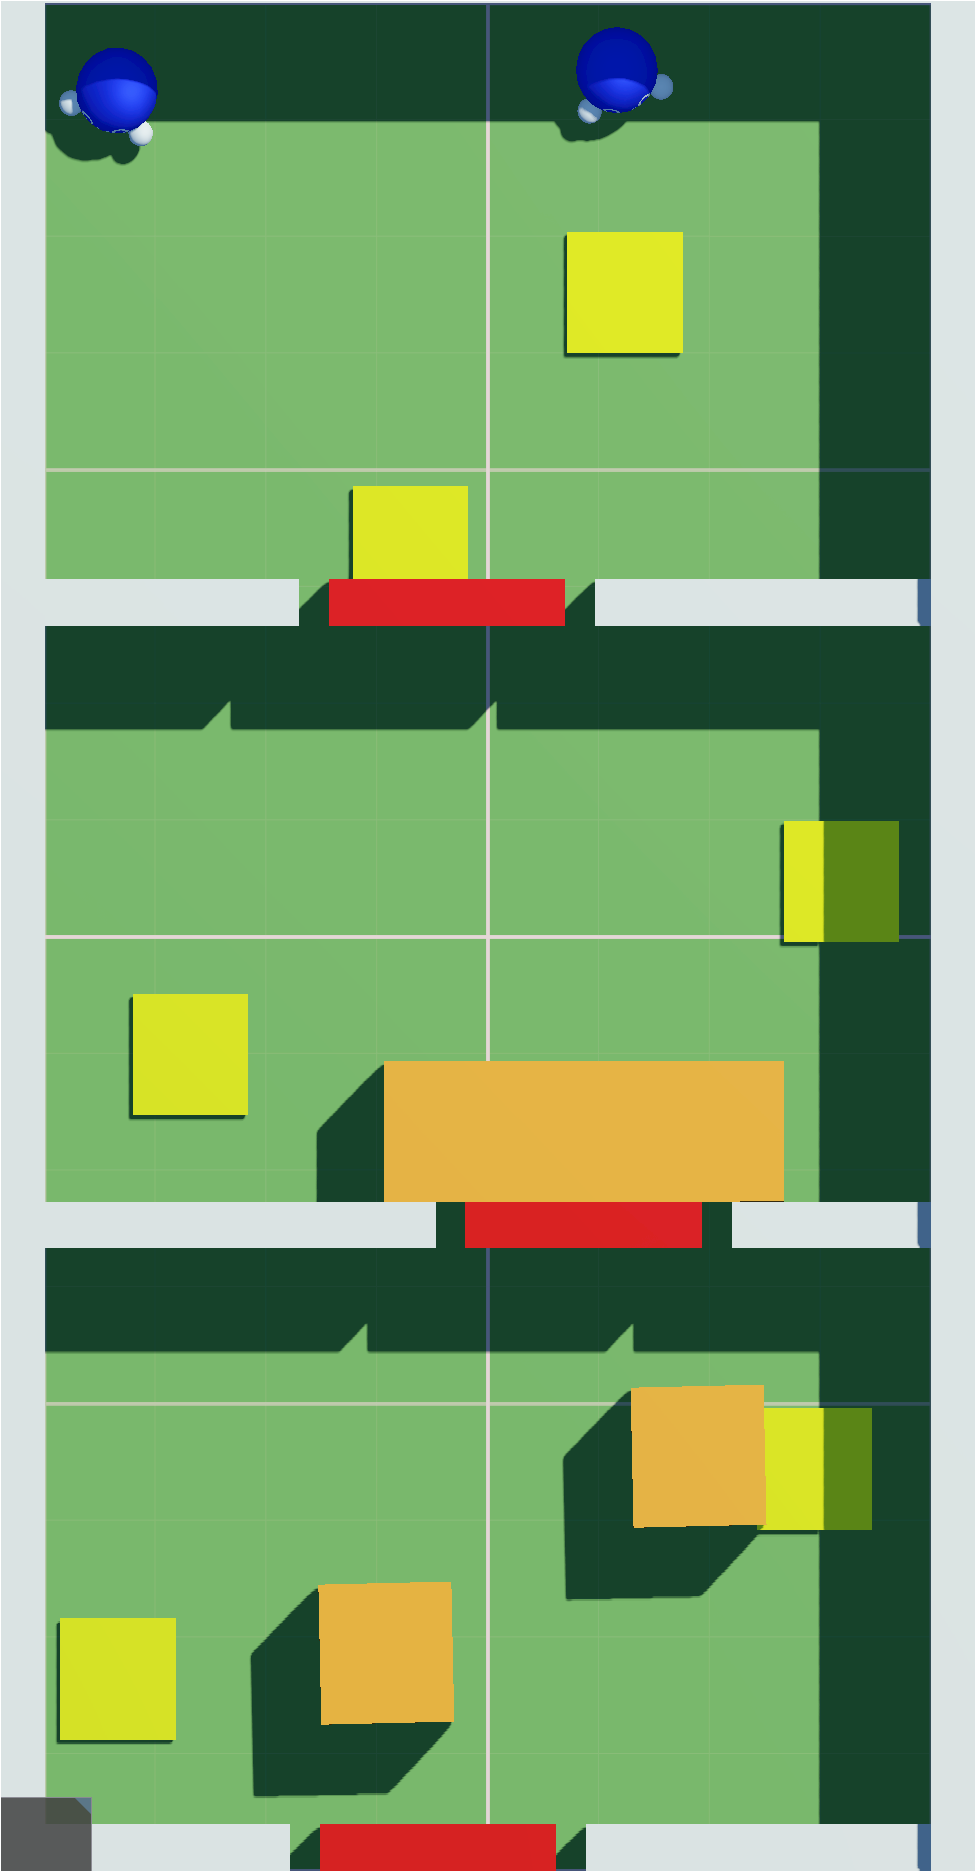
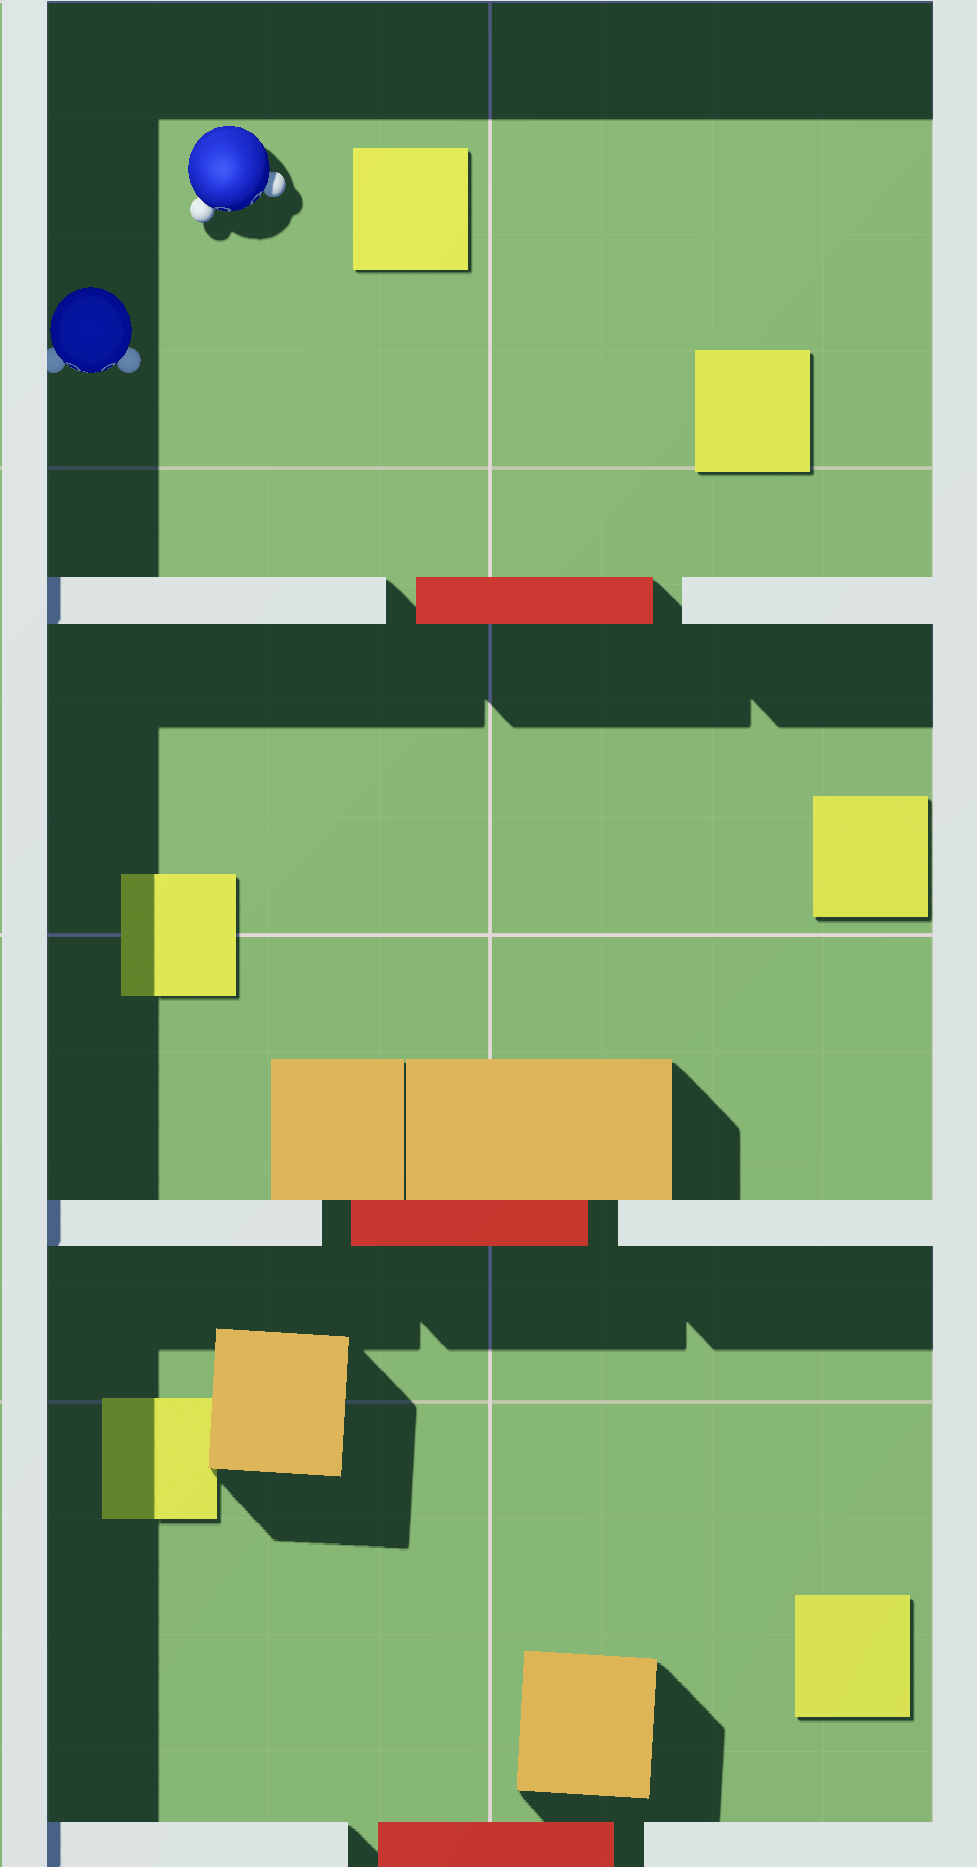
Fixed env changes and sweeps

diff --git a/visualization/index.html b/visualization/index.html
@@ -146,8 +146,10 @@
       .range([0.5, 1]); // Adjust the opacity range as per your preference
 
   const heatmapColorScale = d3.scaleLinear()
-    .domain([-0.5, 0, 1.5, 3])
-    .range(["red", "white", "blue", "navy"]);
+  //  .domain([-0.5, 0, 1.5, 3])
+  //  .range(["red", "white", "blue", "navy"]);
+      .domain([d3.min(averageHeatmapData.flat()), 0, d3.max(averageHeatmapData.flat())])
+      .range(["red", "white", "blue"]);
 
   heatmapSvg.selectAll("rect")
     .data(averageHeatmapData.flat())
@@ -270,7 +272,8 @@
             .attr("x2", xScale(point.x))
             .attr("y2", yScale(point.y))
             .attr("stroke", color)
-            .attr("stroke-width", 2);
+            .attr("stroke-width", 2)
+            .attr("stroke-opacity", 0.5);
         }
       });
     });

diff --git a/src/sim.cpp b/src/sim.cpp
@@ -93,7 +93,7 @@ static inline void initWorld(Engine &ctx)
     // Assign a new episode ID
     EpisodeManager &episode_mgr = *ctx.data().episodeMgr;
     int32_t episode_idx = episode_mgr.curEpisode.fetch_add<sync::relaxed>(1);
-    ctx.data().rng = RNG::make(episode_idx); // SET TO 0 FOR FIXED WORLD VISHNU
+    ctx.data().rng = RNG::make(0); //episode_idx); // SET TO 0 FOR FIXED WORLD VISHNU
     ctx.data().curEpisodeIdx = episode_idx;
 
     // Defined in src/level_gen.hpp / src/level_gen.cpp
@@ -507,11 +507,10 @@ inline void denseRewardSystem(Engine &,
 
     float reward = 0.0f;
 
-    /*if (reward_pos > 14.0f && old_max_y < 14.0f) {
+    if (reward_pos > 14.0f && old_max_y < 14.0f) {
         // Passed the first room
         reward += 1.0f;
-    } else */
-    if (reward_pos > 28.0f && old_max_y < 28.0f) {
+    } else if (reward_pos > 28.0f && old_max_y < 28.0f) {
         reward += 10.0f;
     } else if (reward_pos > 41.0f && old_max_y < 41.0f) {
         reward += 100.0f;
@@ -565,22 +564,27 @@ inline void denseRewardSystem3(Engine &ctx,
         reward_pos = 10.0f;
     } else if (reward_pos < 27.0f && reward_pos > 22.0f) {
         reward_pos = 22.0f;
-    } else if (reward_pos < 41.0f && reward_pos > 36.0f) {
+    } else if (reward_pos < 40.0f && reward_pos > 36.0f) {
         reward_pos = 36.0f;
+    } else if (reward_pos >= 40.0f) {
+        reward_pos += 10.0f; // Not sure if this one is necessary
     }
-
-    float reward = 0.05 * exp(reward_pos / 10);
 
     // Provide reward for open doors
     CountT cur_room_idx = CountT(pos.y / consts::roomLength);
-    const LevelState &level = ctx.singleton<LevelState>();
-    const Room &room = level.rooms[cur_room_idx];
-    Entity cur_door = room.door;
-    //Vector3 door_pos = ctx.get<Position>(cur_door); // Could provide reward for approaching open door
-    OpenState door_open_state = ctx.get<OpenState>(cur_door);
-    //door_obs.polar = xyToPolar(to_view.rotateVec(door_pos - pos));
-    float isOpen = door_open_state.isOpen ? 1.f : 0.f;
-    reward += isOpen; // Maybe add scaling to this
+    if (cur_room_idx < 3) {
+        // Still in a room
+        const LevelState &level = ctx.singleton<LevelState>();
+        const Room &room = level.rooms[cur_room_idx];
+        Entity cur_door = room.door;
+        //Vector3 door_pos = ctx.get<Position>(cur_door); // Could provide reward for approaching open door
+        OpenState door_open_state = ctx.get<OpenState>(cur_door);
+        //door_obs.polar = xyToPolar(to_view.rotateVec(door_pos - pos));
+        float isOpen = door_open_state.isOpen ? 1.f : 0.f;
+        reward_pos += isOpen*5; // Maybe add scaling to this
+    }
+
+    float reward = 0.05 * exp(reward_pos / 10);
 
     out_reward.v = reward;
 }
@@ -676,6 +680,30 @@ inline void rewardSystem(Engine &,
         reward = consts::slackReward;
     }
 
+    out_reward.v = reward;
+}
+
+// Computes reward for each agent and keeps track of the max distance achieved
+// so far through the challenge. Continuous reward is provided for any new
+// distance achieved.
+inline void rewardSystemFixed(Engine &,
+                         Position pos,
+                         Progress &progress,
+                         Reward &out_reward)
+{
+    // Just in case agents do something crazy, clamp total reward
+    float reward_pos = fminf(pos.y, consts::worldLength * 2);
+
+    float old_max_y = progress.maxY;
+
+    float new_progress = reward_pos - old_max_y;
+
+    float reward = 0.0f;
+    if (new_progress > 0) {
+        reward = new_progress * consts::rewardPerDist;
+        progress.maxY = reward_pos;
+    } 
+    
     out_reward.v = reward;
 }
 
@@ -802,7 +830,7 @@ void Sim::setupTasks(TaskGraphBuilder &builder, const Config &cfg)
         >>({button_sys});
 
     // Compute initial reward now that physics has updated the world state
-    
+    /*
     auto reward_sys = builder.addToGraph<ParallelForNode<Engine,
          rewardSystem,
             Position,
@@ -817,21 +845,21 @@ void Sim::setupTasks(TaskGraphBuilder &builder, const Config &cfg)
             Progress,
             Reward
         >>({reward_sys});
-    /*
+    */
     auto reward_sys = builder.addToGraph<ParallelForNode<Engine,
-         sparseRewardSystem2,
+         denseRewardSystem3,
             Position,
             Progress,
             Reward
         >>({door_open_sys});
-    */
+    
     // Check if the episode is over
     auto done_sys = builder.addToGraph<ParallelForNode<Engine,
         stepTrackerSystem,
             StepsRemaining,
             Done
-        >>({bonus_reward_sys});
-    //    >>({reward_sys});
+    //    >>({bonus_reward_sys});
+        >>({reward_sys});
 
     // Conditionally reset the world if the episode is over
     auto reset_sys = builder.addToGraph<ParallelForNode<Engine,

diff --git a/scripts/train.py b/scripts/train.py
@@ -43,6 +43,8 @@ arg_parser.add_argument('--profile-report', action='store_true')
 arg_parser.add_argument('--no-value-norm', action='store_true')
 arg_parser.add_argument('--no-advantage-norm', action='store_true')
 
+arg_parser.add_argument('--no-advantages', action='store_true')
+
 args = arg_parser.parse_args()
 
 normalize_values = not args.no_value_norm
@@ -87,6 +89,7 @@ class LearningCallback:
             second_room_count = (update_results.obs[0][:,:,:,3] > 0.34).sum()
             third_room_count = (update_results.obs[0][:,:,:,3] > 0.67).sum()
             exit_count = (update_results.obs[0][:,:,:,3] > 1.01).sum()
+            door_count = (update_results.obs[3][:,:,:,2] > 0.5).sum()
 
             value_mean = update_results.values.mean().cpu().item()
             value_min = update_results.values.min().cpu().item()
@@ -131,6 +134,7 @@ class LearningCallback:
             "second_room_count": second_room_count,
             "third_room_count": third_room_count,
             "exit_count": exit_count,
+            "door_count": door_count,
             "vnorm_mu": vnorm_mu,
             }
         )
@@ -151,7 +155,7 @@ sim = madrona_escape_room.SimManager(
     auto_reset = True,
 )
 
-use_warm_up = False
+use_warm_up = True
 if use_warm_up:
     steps_so_far = 0
     warm_up = 32
@@ -222,6 +226,7 @@ train(
             max_grad_norm=0.5,
             num_epochs=2,
             clip_value_loss=args.clip_value_loss,
+            no_advantages=args.no_advantages,
         ),
         value_normalizer_decay = 0.999,
         mixed_precision = args.fp16,

diff --git a/train_src/madrona_escape_room_learn/train.py b/train_src/madrona_escape_room_learn/train.py
@@ -137,8 +137,12 @@ def _compute_advantages(cfg : TrainConfig,
         next_valid = 1.0 - cur_dones
 
         # delta_t = r_t + gamma * V(s_{t+1}) - V(s_t)
-        td_err = (cur_rewards + 
-            cfg.gamma * next_valid * next_values - cur_values)
+        if cfg.no_advantages:
+            td_err = (cur_rewards + 
+                cfg.gamma * next_valid * next_values) # Don't subtract off cur_values
+        else:
+            td_err = (cur_rewards + 
+                cfg.gamma * next_valid * next_values - cur_values)
 
         # A_t = sum (gamma * lambda)^(l - 1) * delta_l (EQ 16 GAE)
         #     = delta_t + gamma * lambda * A_t+1
@@ -341,6 +345,7 @@ def _update_iter(cfg : TrainConfig,
             rollouts = rollout_mgr.collect(amp, sim, actor_critic, value_normalizer)
 
         # Dump the rollout
+        '''
         curr_rand = torch.rand((1,))[0]
         if curr_rand < 0.05:
             # Dump the features
@@ -351,6 +356,7 @@ def _update_iter(cfg : TrainConfig,
                 # Create a new directory because it does not exist
                 os.makedirs(dir_path)
             torch.save(rollouts, dir_path + str(now) + ".pt")
+        '''
     
         # Engstrom et al suggest recomputing advantages after every epoch
         # but that's pretty annoying for a recurrent policy since values

diff --git a/scripts/visualizer_log.py b/scripts/visualizer_log.py
@@ -24,6 +24,7 @@ torch.manual_seed(0)
 arg_parser = argparse.ArgumentParser()
 arg_parser.add_argument('--gpu-id', type=int, default=0)
 arg_parser.add_argument('--ckpt-path', type=str, required=True)
+arg_parser.add_argument('--run-name', type=str, required=True)
 arg_parser.add_argument('--action-dump-path', type=str)
 
 arg_parser.add_argument('--num-worlds', type=int, required=True)
@@ -113,5 +114,7 @@ for i in range(args.num_worlds):
     trajectories_data.append(trajectory)
 
 trajectories_json = json.dumps(trajectories_data)
-with open("/data/rl/madrona_3d_example/visualization/test_run_2/" + args.ckpt_path.split('/')[-1].split('.')[0] + ".json", "w") as json_file:
+folder_name = "/mnt/ssd/rl/madrona_escape_room/visualization/" + args.run_name + "/"
+Path(folder_name).mkdir(parents=True, exist_ok=True)
+with open(folder_name + args.ckpt_path.split('/')[-1].split('.')[0] + ".json", "w") as json_file:
     json_file.write(trajectories_json)

diff --git a/train_src/madrona_escape_room_learn/cfg.py b/train_src/madrona_escape_room_learn/cfg.py
@@ -13,6 +13,7 @@ class PPOConfig:
     num_epochs: int = 1
     clip_value_loss: bool = False
     adaptive_entropy: bool = True
+    no_advantages: bool = False # Override to use values instead of advantages
 
 @dataclass(frozen=True)
 class AWRConfig:
